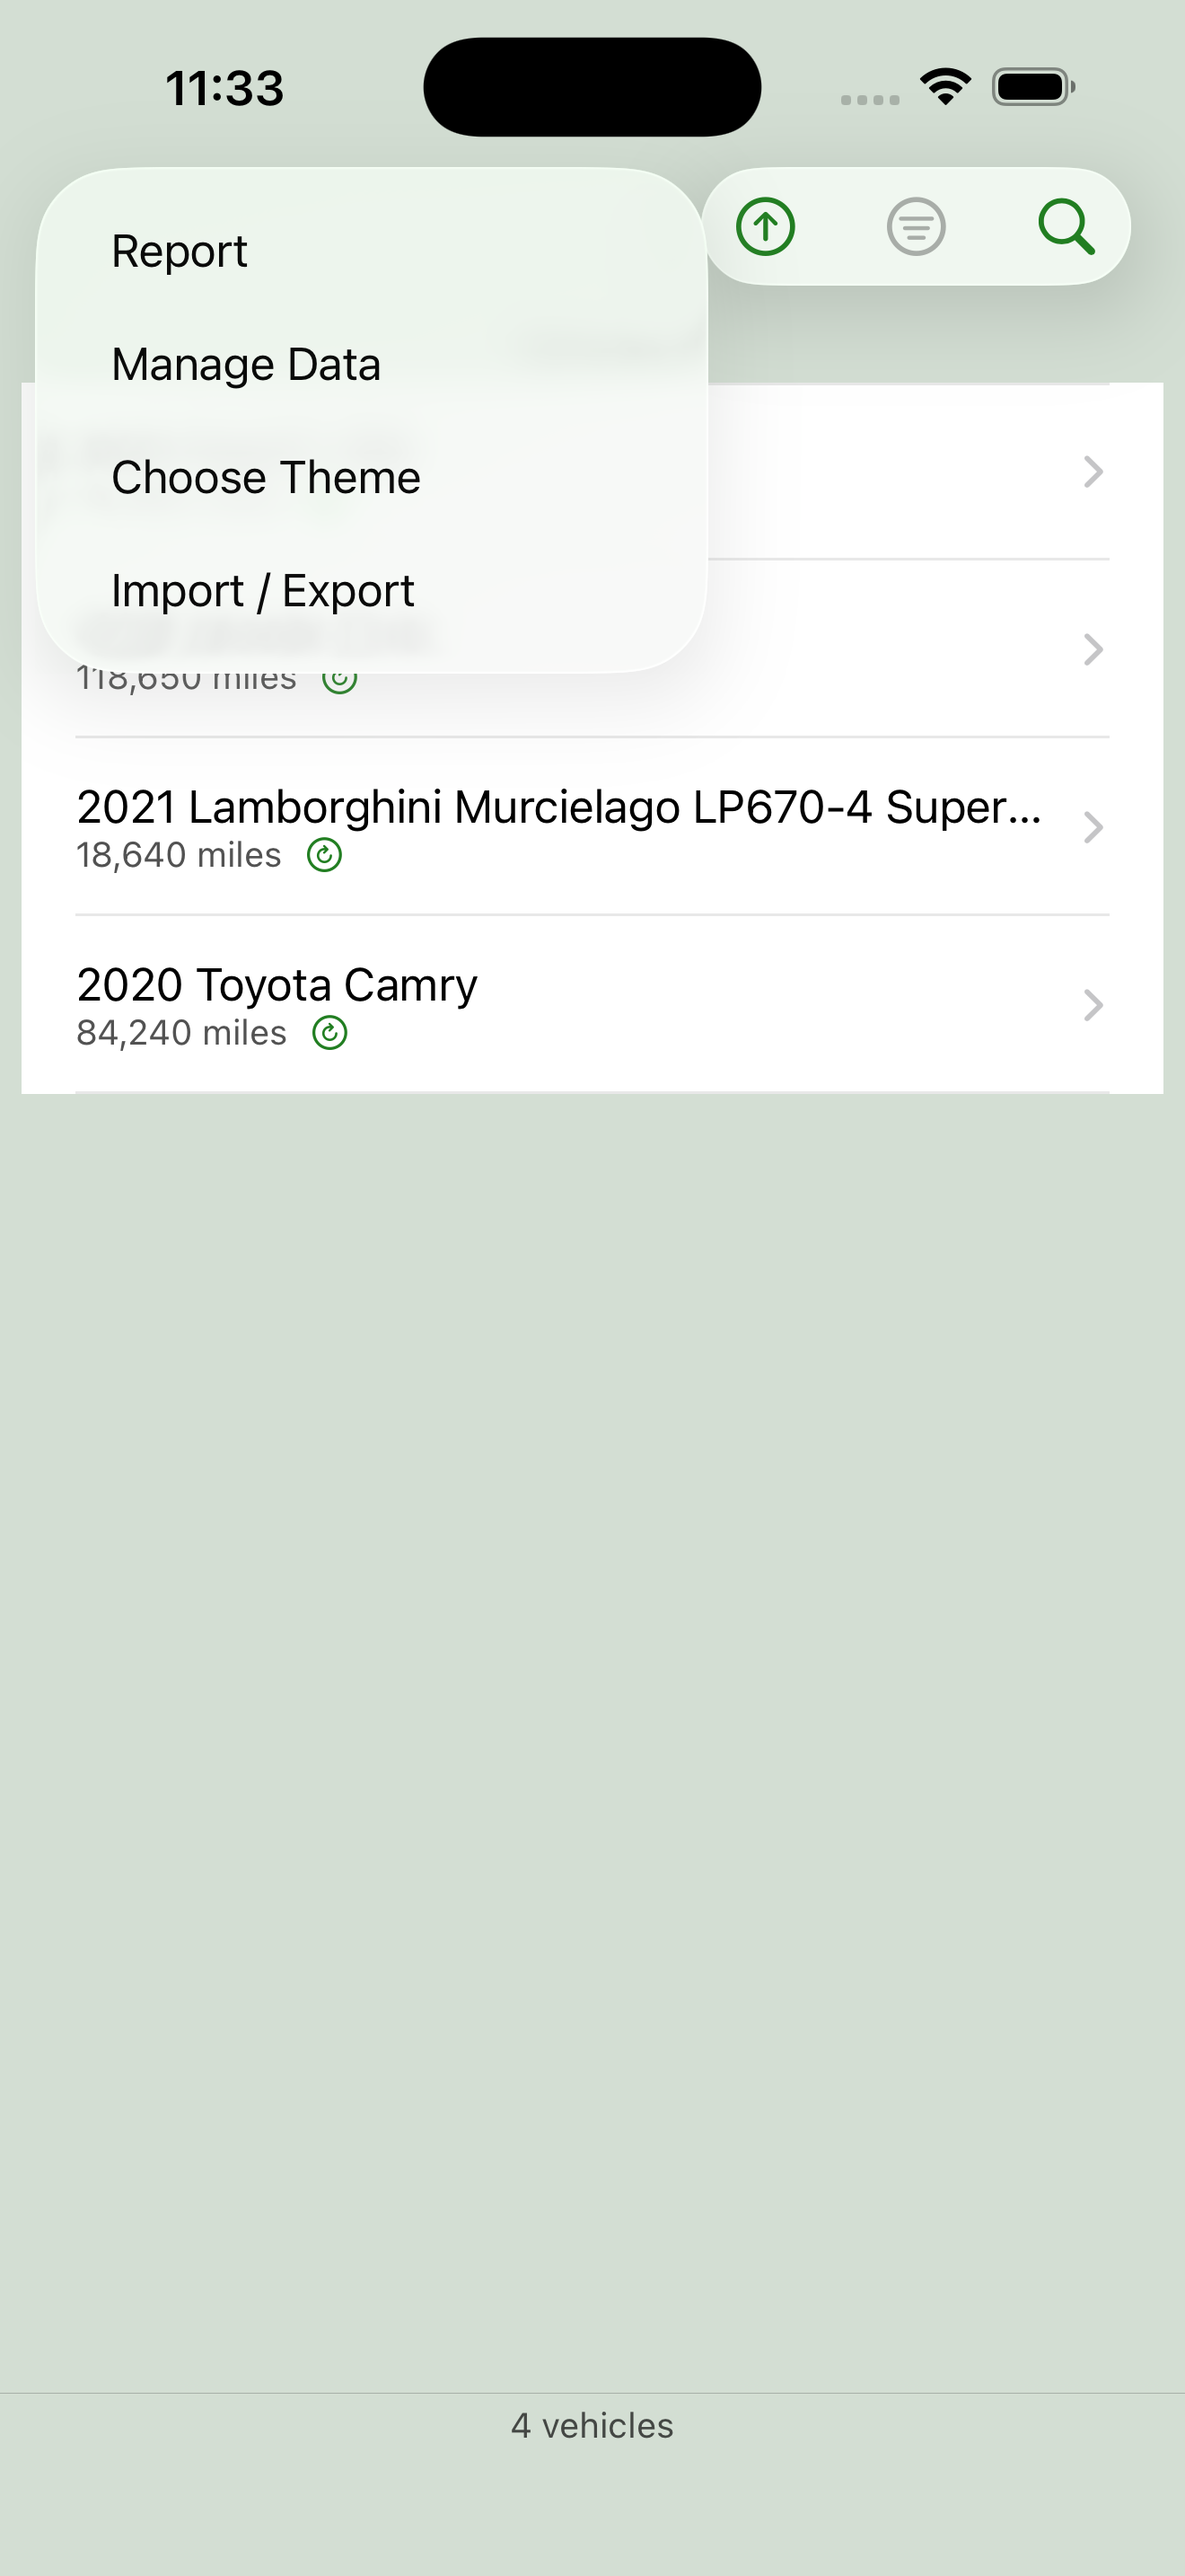
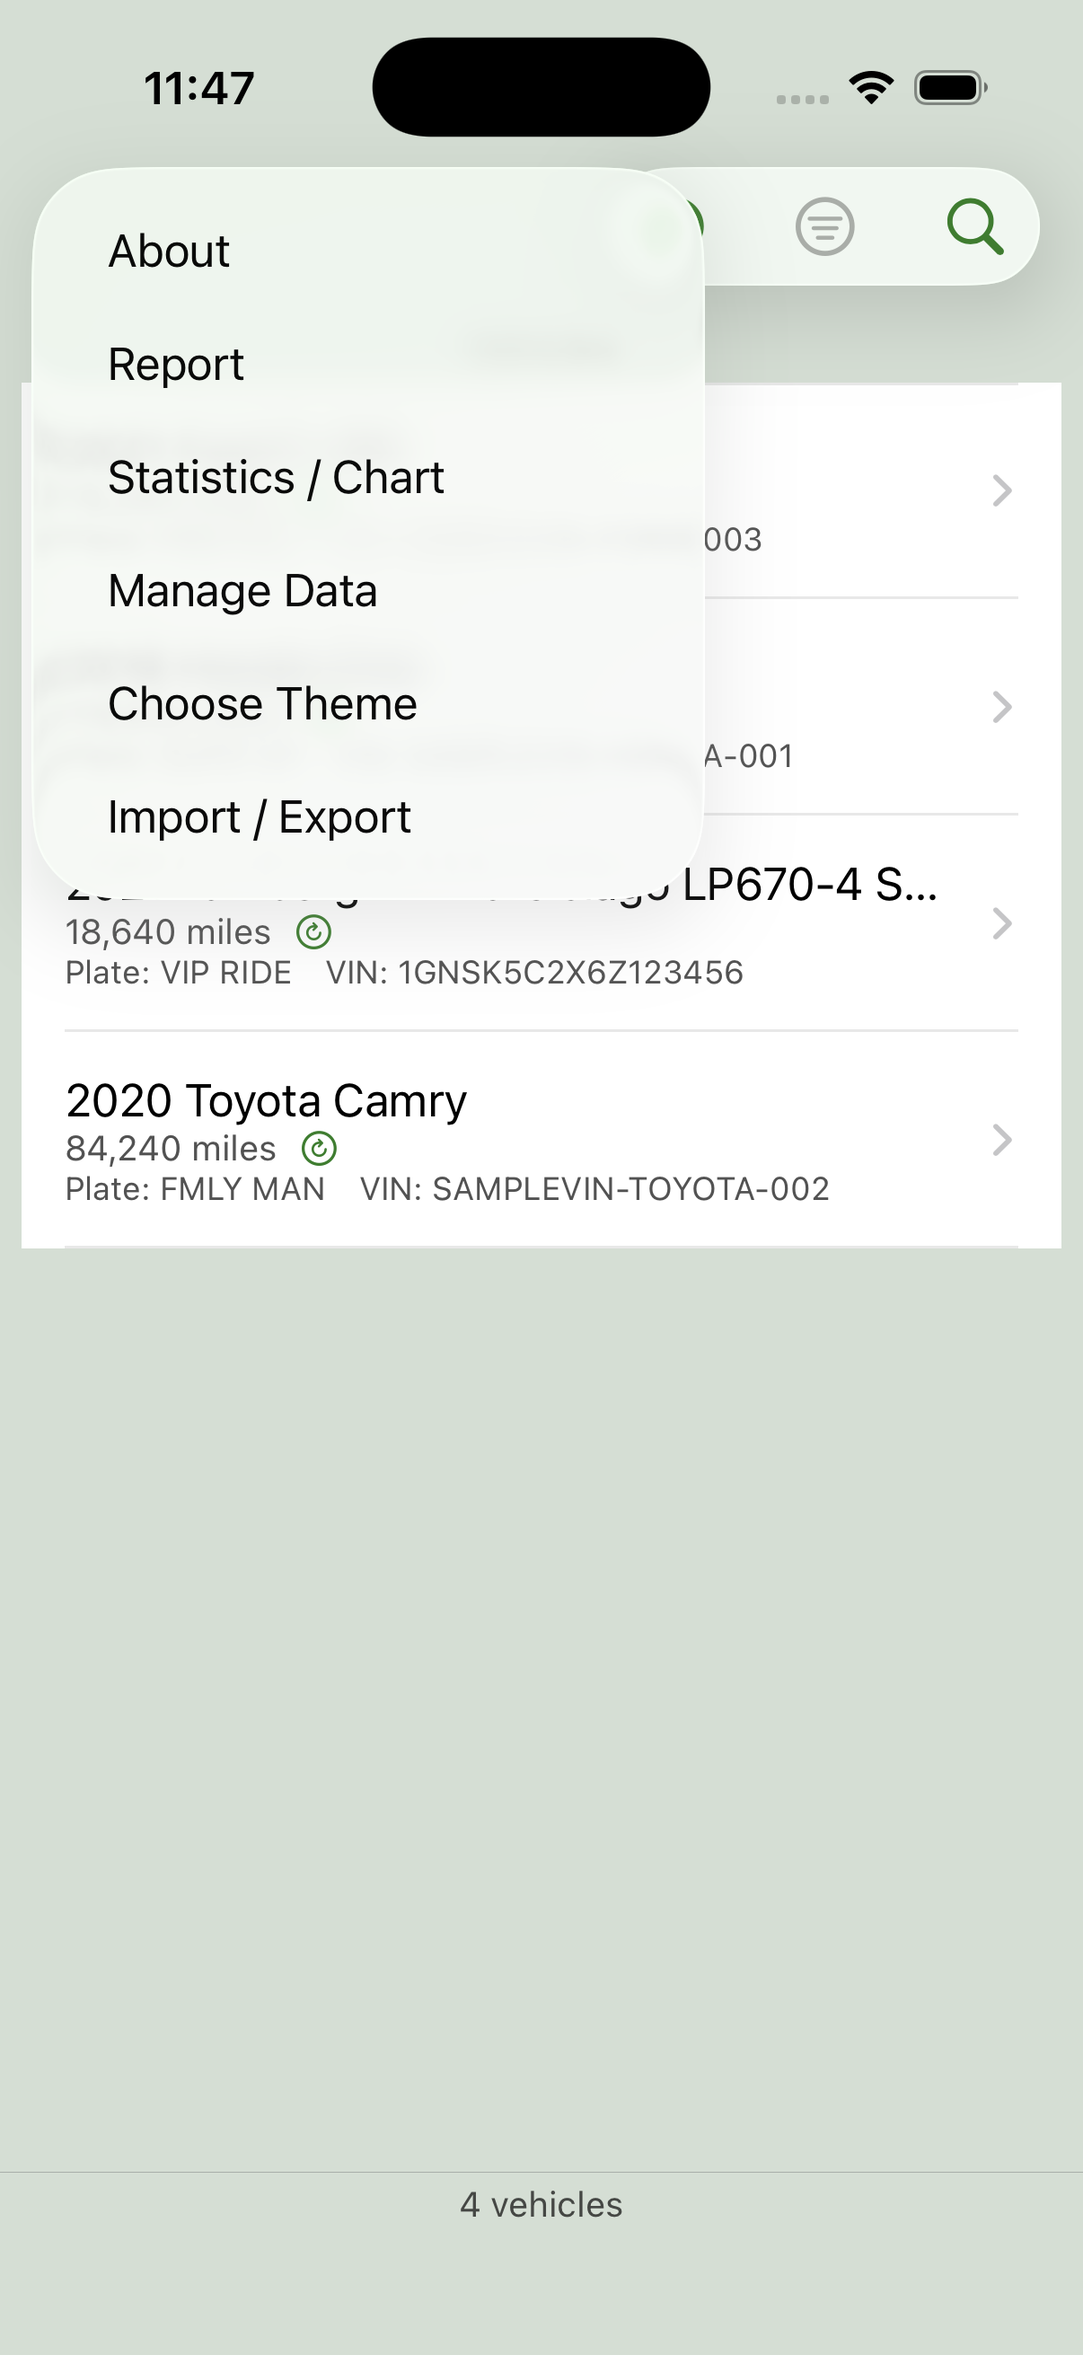
added stats and chart docs to all versions

diff --git a/docs-ios.html b/docs-ios.html
@@ -49,6 +49,7 @@ Paste this at the top of any <body> block
             <li><a href="#attachments">Working With Attachments</a></li>
             <li><a href="#search-filter">Searching, Filtering, and Sorting</a></li>
             <li><a href="#reports">Viewing Reports</a></li>
+            <li><a href="#statistics">Viewing Statistics</a></li>
             <li><a href="#export-import">Exporting and Importing Data</a></li>
             <li><a href="#clearing-data">Create Sample Data / Clearing Your Data</a></li>
             <li><a href="#change-app-theme">Changing Application Color Scheme</a></li>
@@ -78,6 +79,9 @@ Paste this at the top of any <body> block
 
             <h4><a href="#reports">View Reports</a></h4>
             <p>Vehicle Service Tracker includes report views that display vehicle and service information in a clean, organized format. Reports use the current search results and sort order.</p>
+
+            <h4><a href="#statistics">View Statistics</a></h4>
+            <p>Use Statistics to review service costs for an individual vehicle over time, view summary information, and see costs displayed in a chart.</p>
 
             <h4><a href="#export-import">Export Or Import Your Data</a></h4>
             <p>Use the import and export tools to create a portable copy of your vehicle records, service records, and attachments.</p>
@@ -277,6 +281,42 @@ Paste this at the top of any <body> block
     <!-- END Reports -->
 
 
+    <!-- BEGIN Statistics -->
+        <h3 id="statistics">Viewing Statistics</h3>
+
+            <p>Statistics provide a visual summary of service costs for an individual vehicle over time.</p>
+            <p>Select the vehicle you want to review, then choose a time period. Available time periods include <strong>This Year</strong>, <strong>Last 12 Months</strong>, <strong>Last 3 Years</strong>, <strong>All</strong>, and <strong>Custom</strong>. Choosing <strong>Custom</strong> allows you to specify your own starting and ending dates.</p>
+            <p>The summary shows the <strong>Total Cost</strong>, number of <strong>Service Records</strong>, and <strong>Average Cost per Service</strong> for the selected period.</p>
+            <p>Tap the <strong>Chart</strong> button to display service costs over time. On the Chart screen, costs can be grouped by <strong>Month</strong>, <strong>Quarter</strong>, or <strong>Year</strong>. Periods with no recorded service costs are also included, making it easier to see how maintenance and repair expenses are distributed over time.</p>
+            <p>Tap a bar in the chart to display additional information for that period, including the number of service records and total service cost. Tap the selected bar again to clear the selection.</p>
+            <p>When viewing the chart in landscape orientation, use the <strong>Options</strong> button to change the vehicle, time period, custom dates, or grouping.</p>
+            <p>Statistics can be printed using an AirPrint compatible printer or exported as a PDF file. The printed or exported report includes the selected vehicle, time period and grouping, summary information, and chart.</p>
+
+            <a href="images/iOS_stats.png" target="_blank">
+                <img src="images/iOS_stats.png"
+                     alt="Statistics Screen"
+                     class="doc-image">
+            </a>
+            <p class="caption">Statistics Screen</p>
+            
+            <a href="images/iOS_chart_portrait.png" target="_blank">
+                <img src="images/iOS_chart_portrait.png"
+                     alt="Chart Screen Portrait"
+                     class="doc-image">
+            </a>
+            <p class="caption">Chart Screen Portrait</p>
+            
+                        <a href="images/iOS_chart_landscape.png" target="_blank">
+                <img src="images/iOS_chart_landscape.png"
+                     alt="Chart Screen Landscape"
+                     class="doc-image">
+            </a>
+            <p class="caption">Chart Screen Landscape</p>
+
+        <hr>
+    <!-- END Statistics -->
+
+
     <!-- BEGIN Exporting and Importing Data -->
         <h3 id="export-import">Exporting and Importing Data</h3>
 
@@ -351,7 +391,9 @@ Paste this at the top of any <body> block
 
             <p>The Application Menu provides access to the following commands:</p>
             <ul>
+              <li><strong>About</strong> – View app version data.</li>
               <li><strong>Report</strong> – View a report of your vehicle and service data.</li>
+              <li><strong>Statistics</strong> – Review service costs for an individual vehicle using summary information and charts.</li>
               <li><strong>Manage Data</strong> – Create sample data or permanently remove all vehicles, service items, and attachments.</li>
               <li><strong>Choose Theme</strong> – Select the application's color theme.</li>
               <li><strong>Import / Export</strong> – Import or export your vehicle and service data for backup or transfer.</li>
@@ -371,7 +413,7 @@ Paste this at the top of any <body> block
         <h3 id="faq">FAQ and Troubleshooting</h3>
         
 		<h4>How can I see how much I've spent on maintenance?</h4>
-    		<p>Use the <strong>Reports</strong> feature together with the search and filtering tools to review maintenance costs over time. For example, you can filter records by vehicle, date range, or mileage range, then open the report to view the total service cost for the displayed records.</p>
+    		<p>Use the <strong>Statistics</strong> feature to review service costs for an individual vehicle over time. You can choose a time period, group costs by month, quarter, or year, and view the results in an interactive chart. Statistics also show total service cost, number of service records, and average cost per service for the selected period. You can also use <strong>Reports</strong> together with search and filtering tools when you want to review costs for a specific subset of service records.</p>
     	<hr>
 
         <h4>How is my data saved?</h4>

diff --git a/docs.html b/docs.html
@@ -41,6 +41,7 @@ Paste this at the top of any <body> block
             <li><a href="#attachments">Working With Attachments</a></li>
             <li><a href="#search-filter">Searching, Filtering, and Sorting</a></li>
             <li><a href="#reports">Viewing Reports</a></li>
+            <li><a href="#statistics">Viewing Statistics</a></li>
             <li><a href="#export-import">Exporting and Importing Data</a></li>
             <li><a href="#clearing-data">Create Sample Data / Clearing Your Data</a></li>
             <li><a href="#change-app-theme">Changing Application Color Scheme</a></li>
@@ -72,6 +73,9 @@ Paste this at the top of any <body> block
 			
 			<h4><a href="#reports">View Reports</a></h4>
 			<p>Vehicle Service Tracker includes printable report views that display vehicle and service information in a clean, organized format. Reports always use the current search results and sort order from the main window.</p>
+
+			<h4><a href="#statistics">View Statistics</a></h4>
+			<p>Statistics provide a visual summary of service costs for an individual vehicle over time, with flexible time periods and grouping by month, quarter, or year.</p>
 			
 			<h4><a href="#export-import">Export Or Import Your Data</a></h4>
 			<p>Use the import and export tools to create a copy of your vehicle records, service records, and attachments.</p>
@@ -230,6 +234,47 @@ Paste this at the top of any <body> block
 		
     <hr>
     <!-- END Reports -->
+
+<!-- BEGIN Statistics -->
+    <h3 id="statistics">Viewing Statistics</h3>
+
+		<!-- Menu Breadcrumb -->
+		<div style="margin-top: -0.2rem; margin-bottom: 1.25rem;">
+		  <span style="
+			font-size: 0.8rem;
+			color: #555;
+			border: 1px solid #ccc;
+			border-radius: 999px;
+			padding: 3px 10px;
+			background: white;
+		  ">
+			Window → Show Statistics
+		  </span>
+		</div>
+
+		<p>Statistics provide a visual summary of service costs for an individual vehicle over time.</p>
+
+		<p>Select the vehicle you want to review, then choose a time period and how you want the information grouped. Available time periods include <strong>This Year</strong>, <strong>Last 12 Months</strong>, <strong>Last 3 Years</strong>, <strong>All</strong>, and <strong>Custom</strong>. Choosing <strong>Custom</strong> allows you to specify your own starting and ending dates.</p>
+
+		<p>Service costs can be grouped by <strong>Month</strong>, <strong>Quarter</strong>, or <strong>Year</strong>. The Statistics view updates automatically when you change the vehicle, time period, custom dates, or grouping.</p>
+
+		<p>The summary shows the <strong>Total Cost</strong>, number of <strong>Service Records</strong>, and <strong>Average Cost per Service</strong> for the selected period.</p>
+
+		<p>The chart displays service costs over time using the selected grouping. Periods with no recorded service costs are also included, making it easier to see how maintenance and repair expenses are distributed over time.</p>
+
+		<p>Click a bar in the chart to display additional information for that period, including the number of service records and total service cost. Click the selected bar again to clear the selection.</p>
+
+		<p>Statistics can also be printed. The printed report includes the selected vehicle, time period and grouping, summary information, and chart. If you want to save an electronic copy instead of printing a hard copy, use the <strong>Print</strong> function and choose <strong>Save as PDF</strong>.</p>
+
+		<a href="images/statistics-view.jpg" target="_blank">
+		<img src="images/statistics-view.jpg"
+			   alt="Vehicle Service Tracker Statistics"
+			   class="doc-image">
+		</a>
+		<p class="caption">Statistics Screen</p>
+
+    <hr>
+<!-- END Statistics -->
         
         
 <!-- BEGIN Exporting and Importing Data -->
@@ -407,6 +452,11 @@ Paste this at the top of any <body> block
 		<td style="padding-right: 48px; vertical-align: top;"><strong>Show Report</strong></td>
 		<td>Window → Show Report</td>
 	  </tr>
+
+	  <tr>
+		<td style="padding-right: 48px; vertical-align: top;"><strong>Show Statistics</strong></td>
+		<td>Window → Show Statistics</td>
+	  </tr>
 	
 	  <tr>
 		<td style="padding-right: 48px; vertical-align: top;"><strong>Add New In Context</strong></td>
@@ -446,6 +496,11 @@ Paste this at the top of any <body> block
 	  <tr>
 		<td style="padding-right: 48px; vertical-align: top;"><strong>Online Documentation</strong></td>
 		<td>Help → Vehicle Service Tracker Help</td>
+	  </tr>
+	  
+	  <tr>
+		<td style="padding-right: 48px; vertical-align: top;"><strong>About</strong></td>
+		<td>VehicleServiceTracker → About</td>
 	  </tr>
 	</table>
 <hr>
@@ -487,7 +542,7 @@ Paste this at the top of any <body> block
 	<hr>
 	
 	<h4>How can I see how much I’ve spent on maintenance?</h4>	
-		<p>Use the Reports feature together with search and filtering tools to review maintenance costs over time. For example, you can filter records by vehicle, date range, or mileage range, then open the report window to see total service costs and total recorded mileage for the matching records.</p>
+		<p>Use the Statistics feature to review service costs for an individual vehicle over time. You can choose a time period, group costs by month, quarter, or year, and view the results in an interactive chart. Statistics also show total service cost, number of service records, and average cost per service for the selected period. Alternatively, you can also use Reports together with search and filtering tools when you want to review costs for a specific subset of service records.</p>
 	<hr>
 	
 	<center>

diff --git a/docs-ipad.html b/docs-ipad.html
@@ -43,6 +43,7 @@ Paste this at the top of any <body> block
             <li><a href="#attachments">Working With Attachments</a></li>
             <li><a href="#search-filter">Searching, Filtering, and Sorting</a></li>
             <li><a href="#reports">Viewing Reports</a></li>
+            <li><a href="#statistics">Viewing Statistics</a></li>
             <li><a href="#export-import">Exporting and Importing Data</a></li>
             <li><a href="#clearing-data">Create Sample Data / Clearing Your Data</a></li>
             <li><a href="#change-app-theme">Changing Application Color Scheme</a></li>
@@ -72,6 +73,9 @@ Paste this at the top of any <body> block
 
             <h4><a href="#reports">View Reports</a></h4>
             <p>Vehicle Service Tracker includes report views that display vehicle and service information in a clean, organized format. Reports use the current search results and sort order.</p>
+
+            <h4><a href="#statistics">View Statistics</a></h4>
+            <p>Use Statistics to review service costs for an individual vehicle over time, view summary information, and see costs displayed in a chart.</p>
 
             <h4><a href="#export-import">Export Or Import Your Data</a></h4>
             <p>Use the import and export tools to create a portable copy of your vehicle records, service records, and attachments.</p>
@@ -256,6 +260,28 @@ Paste this at the top of any <body> block
     <!-- END Reports -->
 
 
+    <!-- BEGIN Statistics -->
+        <h3 id="statistics">Viewing Statistics</h3>
+
+            <p>Statistics provide a visual summary of service costs for an individual vehicle over time.</p>
+            <p>Select the vehicle you want to review, then choose a time period and how you want the information grouped. Available time periods include <strong>This Year</strong>, <strong>Last 12 Months</strong>, <strong>Last 3 Years</strong>, <strong>All</strong>, and <strong>Custom</strong>. Choosing <strong>Custom</strong> allows you to specify your own starting and ending dates.</p>
+            <p>Service costs can be grouped by <strong>Month</strong>, <strong>Quarter</strong>, or <strong>Year</strong>. The Statistics view updates automatically when you change the vehicle, time period, custom dates, or grouping.</p>
+            <p>The summary shows the <strong>Total Cost</strong>, number of <strong>Service Records</strong>, and <strong>Average Cost per Service</strong> for the selected period.</p>
+            <p>The chart displays service costs over time using the selected grouping. Periods with no recorded service costs are also included, making it easier to see how maintenance and repair expenses are distributed over time.</p>
+            <p>Tap a bar in the chart to display additional information for that period, including the number of service records and total service cost. Tap the selected bar again to clear the selection.</p>
+            <p>Statistics can be printed using an AirPrint compatible printer or exported as a PDF file. The printed or exported report includes the selected vehicle, time period and grouping, summary information, and chart.</p>
+
+            <a href="images/ipad_statistics.png" target="_blank">
+                <img src="images/ipad_statistics.png"
+                     alt="Statistics Screen"
+                     class="doc-image">
+            </a>
+            <p class="caption">Statistics Screen</p>
+
+        <hr>
+    <!-- END Statistics -->
+
+
     <!-- BEGIN Exporting and Importing Data -->
         <h3 id="export-import">Exporting and Importing Data</h3>
 
@@ -330,7 +356,9 @@ Paste this at the top of any <body> block
 
             <p>The Application Menu provides access to the following commands:</p>
             <ul>
+              <li><strong>About</strong> – View app version data.</li>
               <li><strong>Report</strong> – View a report of your vehicle and service data.</li>
+              <li><strong>Statistics</strong> – Review service costs for an individual vehicle using summary information and charts.</li>
               <li><strong>Manage Data</strong> – Create sample data or permanently remove all vehicles, service items, and attachments.</li>
               <li><strong>Choose Theme</strong> – Select the application's color theme.</li>
               <li><strong>Import / Export</strong> – Import or export your vehicle and service data for backup or transfer.</li>
@@ -350,7 +378,7 @@ Paste this at the top of any <body> block
         <h3 id="faq">FAQ and Troubleshooting</h3>
         
 		<h4>How can I see how much I've spent on maintenance?</h4>
-    		<p>Use the <strong>Reports</strong> feature together with the search and filtering tools to review maintenance costs over time. For example, you can filter records by vehicle, date range, or mileage range, then open the report to view the total service cost for the displayed records.</p>
+    		<p>Use the <strong>Statistics</strong> feature to review service costs for an individual vehicle over time. You can choose a time period, group costs by month, quarter, or year, and view the results in an interactive chart. Statistics also show total service cost, number of service records, and average cost per service for the selected period. You can also use <strong>Reports</strong> together with search and filtering tools when you want to review costs for a specific subset of service records.</p>
     	<hr>
 
         <h4>How is my data saved?</h4>
